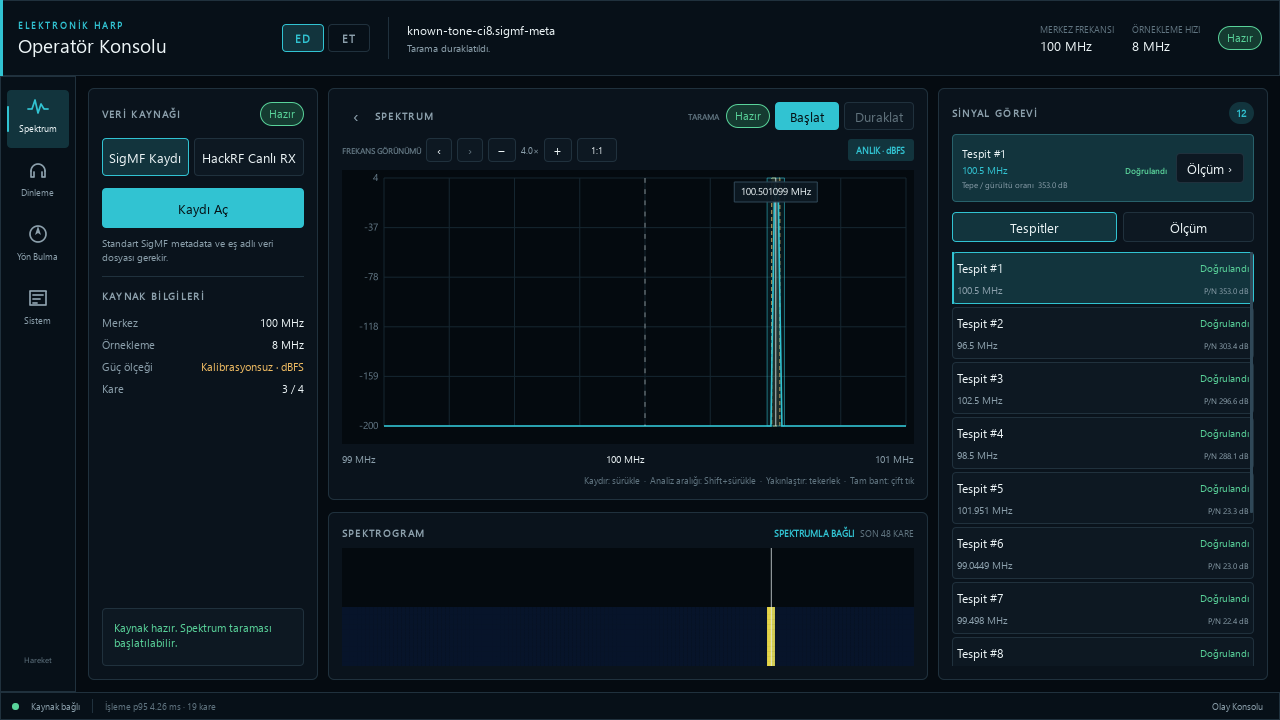
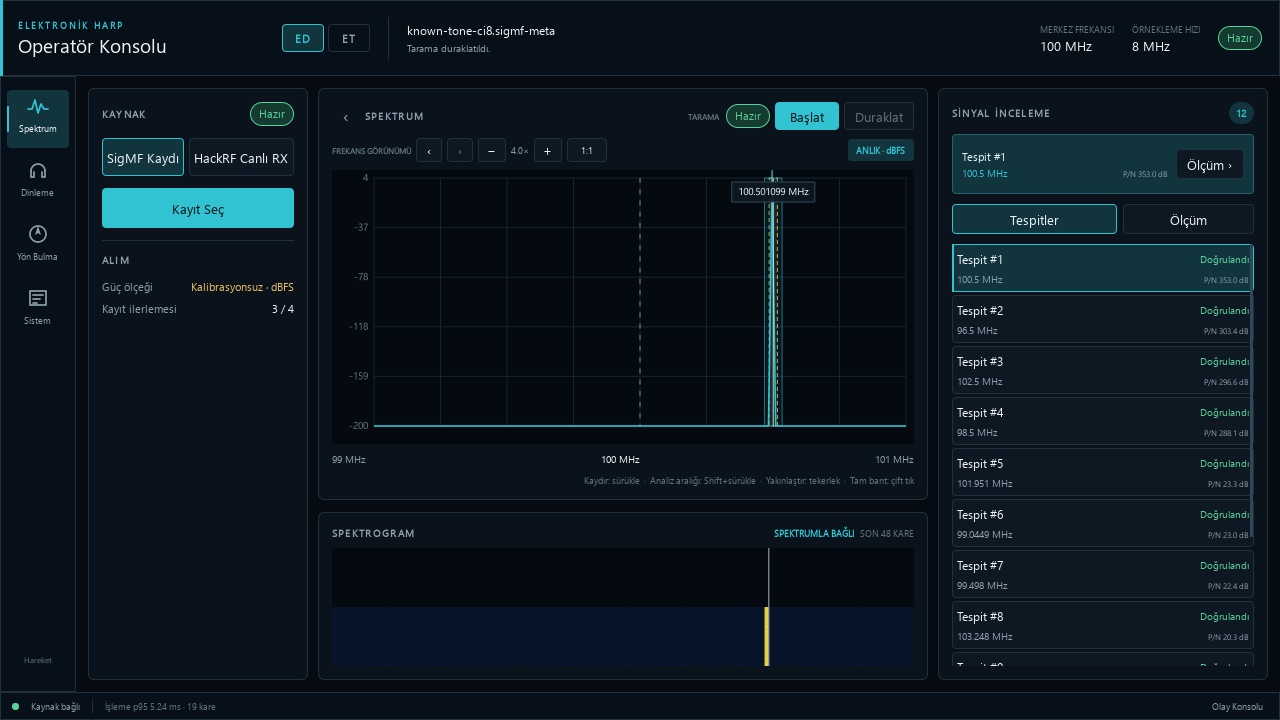
feat(ui): refine ED operator hierarchy

diff --git a/app/operator_console/qml/Main.qml b/app/operator_console/qml/Main.qml
@@ -695,7 +695,7 @@ ApplicationWindow {
 
                     Panel {
                         id: sourcePanel
-                        property real animatedWidth: root.sourcePanelOpen ? 230 : 0
+                        property real animatedWidth: root.sourcePanelOpen ? 220 : 0
                         Layout.preferredWidth: animatedWidth
                         Layout.minimumWidth: animatedWidth
                         Layout.maximumWidth: animatedWidth
@@ -711,7 +711,7 @@ ApplicationWindow {
                             spacing: 12
                             RowLayout {
                                 Layout.fillWidth: true
-                                SectionTitle { text: "VERİ KAYNAĞI"; Layout.fillWidth: true }
+                                SectionTitle { text: "KAYNAK"; Layout.fillWidth: true }
                                 StateBadge { state: operatorViewModel.playing ? "Çalışıyor" : operatorViewModel.busy ? "Çalışıyor" : operatorViewModel.sourceState }
                             }
 
@@ -739,43 +739,19 @@ ApplicationWindow {
                             }
 
                             Rectangle { Layout.fillWidth: true; height: 1; color: root.border }
-                            SectionTitle { text: "KAYNAK BİLGİLERİ" }
+                            SectionTitle { text: "ALIM" }
                             GridLayout {
                                 columns: 2
                                 Layout.fillWidth: true
                                 columnSpacing: 10
                                 rowSpacing: 7
-                                Label { text: "Merkez"; color: root.textSecondary; font.pixelSize: 11 }
-                                Label { text: operatorViewModel.centerFrequencyText; color: root.textPrimary; font.pixelSize: 11; Layout.fillWidth: true; horizontalAlignment: Text.AlignRight }
-                                Label { text: "Örnekleme"; color: root.textSecondary; font.pixelSize: 11 }
-                                Label { text: operatorViewModel.sampleRateText; color: root.textPrimary; font.pixelSize: 11; Layout.fillWidth: true; horizontalAlignment: Text.AlignRight }
                                 Label { text: "Güç ölçeği"; color: root.textSecondary; font.pixelSize: 11 }
                                 Label { text: operatorViewModel.calibrationText; color: root.warning; font.pixelSize: 11; Layout.fillWidth: true; horizontalAlignment: Text.AlignRight }
-                                Label { text: "Kare"; color: root.textSecondary; font.pixelSize: 11 }
+                                Label { text: "Kayıt ilerlemesi"; color: root.textSecondary; font.pixelSize: 11 }
                                 Label { text: operatorViewModel.frameIndex + " / " + operatorViewModel.frameCount; color: root.textPrimary; font.pixelSize: 11; Layout.fillWidth: true; horizontalAlignment: Text.AlignRight }
                             }
 
                             Item { Layout.fillHeight: true }
-                            Rectangle {
-                                Layout.fillWidth: true
-                                implicitHeight: taskState.implicitHeight + 28
-                                radius: 4
-                                color: root.surfaceAlt
-                                border.color: root.border
-                                Label {
-                                    id: taskState
-                                    anchors.fill: parent
-                                    anchors.margins: 12
-                                    text: operatorViewModel.sourceReady
-                                          ? (operatorViewModel.playing
-                                             ? "Tarama çalışıyor. Tespitler canlı olarak güncelleniyor."
-                                             : "Kaynak hazır. Spektrum taraması başlatılabilir.")
-                                          : "Bir SigMF kaydı açın veya bağlı HackRF alıcısını denetleyin."
-                                    wrapMode: Text.Wrap
-                                    color: operatorViewModel.sourceReady ? root.success : root.textSecondary
-                                    font.pixelSize: 11
-                                }
-                            }
                         }
                     }
 
@@ -1206,7 +1182,7 @@ ApplicationWindow {
                             spacing: 10
                             RowLayout {
                                 Layout.fillWidth: true
-                                SectionTitle { text: "SİNYAL GÖREVİ"; Layout.fillWidth: true }
+                                SectionTitle { text: "SİNYAL İNCELEME"; Layout.fillWidth: true }
                                 Rectangle {
                                     implicitWidth: detectionCount.implicitWidth + 14
                                     implicitHeight: 22
@@ -1217,7 +1193,7 @@ ApplicationWindow {
                             }
                             Rectangle {
                                 Layout.fillWidth: true
-                                implicitHeight: 68
+                                implicitHeight: 60
                                 radius: 4
                                 color: operatorViewModel.selectedDetectionReady ? root.accentSoft : root.surfaceAlt
                                 border.color: operatorViewModel.selectedDetectionReady ? "#28616B" : root.border
@@ -1239,9 +1215,8 @@ ApplicationWindow {
                                         RowLayout {
                                             Layout.fillWidth: true
                                             Label { text: operatorViewModel.selectedDetectionFrequencyText; color: operatorViewModel.selectedDetectionReady ? root.accent : root.textSecondary; font.pixelSize: 10; font.family: "Consolas"; Layout.fillWidth: true }
-                                            Label { text: operatorViewModel.selectedDetectionStateText; color: operatorViewModel.selectedDetectionReady ? root.success : root.textMuted; font.pixelSize: 8; font.weight: Font.Bold }
+                                            Label { visible: operatorViewModel.selectedDetectionReady; text: "P/N " + operatorViewModel.selectedDetectionContrastText; color: root.textSecondary; font.pixelSize: 8; Accessible.name: "Tepe gürültü oranı " + operatorViewModel.selectedDetectionContrastText }
                                         }
-                                        Label { visible: operatorViewModel.selectedDetectionReady; text: "Tepe / gürültü oranı  " + operatorViewModel.selectedDetectionContrastText; color: root.textSecondary; font.pixelSize: 8 }
                                     }
                                     QuietButton {
                                         text: "Ölçüm ›"
@@ -1289,7 +1264,7 @@ ApplicationWindow {
                                 delegate: Button {
                                     required property var modelData
                                     width: ListView.view.width
-                                    height: 52
+                                    height: 48
                                     Accessible.name: modelData.title + ", " + modelData.state
                                     onPressed: operatorViewModel.selectDetection(modelData.eventId)
                                     background: Rectangle {
@@ -2091,8 +2066,8 @@ ApplicationWindow {
                     spacing: 10
                     RowLayout {
                         Layout.fillWidth: true
-                        SectionTitle { text: "SİSTEM / DURUM İZLEME"; Layout.fillWidth: true }
-                        Label { text: "SALT OKUNUR SİSTEM DURUMU"; color: root.textMuted; font.pixelSize: root.uiMetaTextSize; font.weight: Font.Bold }
+                        SectionTitle { text: "SİSTEM DURUMU"; Layout.fillWidth: true }
+                        Label { text: "SALT OKUNUR"; color: root.textMuted; font.pixelSize: root.uiMetaTextSize; font.weight: Font.Bold }
                         StateBadge { state: operatorViewModel.sourceReady ? "Hazır" : "Bekliyor" }
                     }
                     Panel {
@@ -2106,9 +2081,9 @@ ApplicationWindow {
                             Repeater {
                                 model: [
                                     {"label": "KAYNAK", "value": operatorViewModel.sourceState, "detail": operatorViewModel.sourceName},
-                                    {"label": "İŞLENEN KARE", "value": operatorViewModel.frameIndex + " / " + operatorViewModel.frameCount, "detail": operatorViewModel.playing ? "Tarama çalışıyor" : "Tarama duraklatıldı"},
-                                    {"label": "HOST İŞLEME", "value": operatorViewModel.performanceText, "detail": "GUI iş parçacığı dışında"},
-                                    {"label": "PARAMETRE ÖLÇÜMÜ", "value": operatorViewModel.parameterCapabilityReady ? "Kullanılabilir" : "Kullanılamıyor", "detail": "Profil bütünlüğü doğrulandı"}
+                                    {"label": "TARAMA", "value": operatorViewModel.frameIndex + " / " + operatorViewModel.frameCount, "detail": operatorViewModel.playing ? "Çalışıyor" : "Duraklatıldı"},
+                                    {"label": "İŞLEME GECİKMESİ", "value": operatorViewModel.performanceText, "detail": "Arka plan işleme"},
+                                    {"label": "ÖLÇÜM PROFİLİ", "value": operatorViewModel.parameterCapabilityReady ? "Hazır" : "Kullanılamıyor", "detail": "Bütünlük doğrulandı"}
                                 ]
                                 delegate: Rectangle {
                                     required property var modelData
@@ -2146,10 +2121,9 @@ ApplicationWindow {
                                 spacing: 8
                                 RowLayout {
                                     Layout.fillWidth: true
-                                    SectionTitle { text: "İŞLEME ZİNCİRİ"; Layout.fillWidth: true }
-                                    Label { text: operatorViewModel.pipelineBlocks.length + " aşama"; color: root.textMuted; font.pixelSize: root.uiMetaTextSize; font.family: "Consolas" }
+                                    SectionTitle { text: "İŞLEME DURUMU"; Layout.fillWidth: true }
+                                    Label { text: operatorViewModel.pipelineBlocks.length + " bileşen"; color: root.textMuted; font.pixelSize: root.uiMetaTextSize; font.family: "Consolas" }
                                 }
-                                Label { text: "Etkin yürütme katmanı ve doğrulanmış kaynak karşılıkları"; color: root.textSecondary; font.pixelSize: root.uiMetaTextSize; wrapMode: Text.Wrap; Layout.fillWidth: true }
                                 Rectangle { Layout.fillWidth: true; height: 1; color: root.border }
                                 ListView {
                                     id: pipelineList
@@ -2214,7 +2188,7 @@ ApplicationWindow {
                                     spacing: 8
                                     RowLayout {
                                         Layout.fillWidth: true
-                                        SectionTitle { text: "BİLEŞEN DENETÇİSİ"; Layout.fillWidth: true }
+                                        SectionTitle { text: "BİLEŞEN AYRINTISI"; Layout.fillWidth: true }
                                         Rectangle { width: 8; height: 8; radius: 4; color: root.stateColor(componentInspector.block.state || "") }
                                         Label { text: componentInspector.block.state || "—"; color: root.stateColor(componentInspector.block.state || ""); font.pixelSize: root.uiMetaTextSize; font.weight: Font.Bold }
                                     }
@@ -2241,9 +2215,11 @@ ApplicationWindow {
                                         Layout.fillWidth: true
                                         columnSpacing: 16
                                         rowSpacing: 4
-                                        Label { text: "Uygulama"; color: root.textMuted; font.pixelSize: root.uiMetaTextSize }
-                                        Label { text: componentInspector.block.implementation || "—"; color: root.textPrimary; font.pixelSize: root.uiMetaTextSize; Layout.fillWidth: true }
-                                        Label { text: "Donanım sınırı"; color: root.textMuted; font.pixelSize: root.uiMetaTextSize }
+                                        Label { text: "Yürütme katmanı"; color: root.textMuted; font.pixelSize: root.uiMetaTextSize }
+                                        Label { text: componentInspector.block.runtime || "—"; color: root.textPrimary; font.pixelSize: root.uiMetaTextSize; Layout.fillWidth: true }
+                                        Label { text: "Uygulama"; visible: operatorViewModel.developerMode; color: root.textMuted; font.pixelSize: root.uiMetaTextSize }
+                                        Label { text: componentInspector.block.implementation || "—"; visible: operatorViewModel.developerMode; color: root.textPrimary; font.pixelSize: root.uiMetaTextSize; Layout.fillWidth: true }
+                                        Label { text: "Donanım durumu"; color: root.textMuted; font.pixelSize: root.uiMetaTextSize }
                                         Label { text: componentInspector.block.rtlPath ? "Kaynak karşılığı mevcut; kart kabulü yok" : "Host üzerinde çalışıyor"; color: componentInspector.block.rtlPath ? root.warning : root.textSecondary; font.pixelSize: root.uiMetaTextSize; Layout.fillWidth: true }
                                     }
                                     RowLayout {
@@ -2643,8 +2619,8 @@ ApplicationWindow {
         ColumnLayout {
             width: parent ? parent.width : 240
             spacing: 8
-            PrimaryButton { Layout.fillWidth: true; text: "Kaydı Aç"; enabled: !operatorViewModel.busy; onClicked: sigmfDialog.open() }
-            Label { text: "Standart SigMF metadata ve eş adlı veri dosyası gerekir."; color: root.textSecondary; font.pixelSize: 10; wrapMode: Text.Wrap; Layout.fillWidth: true }
+            PrimaryButton { Layout.fillWidth: true; text: "Kayıt Seç"; enabled: !operatorViewModel.busy; onClicked: sigmfDialog.open() }
+            Label { visible: !operatorViewModel.sourceReady; text: "SigMF metadata ve veri dosyasını birlikte seçin."; color: root.textSecondary; font.pixelSize: 10; wrapMode: Text.Wrap; Layout.fillWidth: true }
         }
     }
 

diff --git a/tests/test_app_f_quick_product.py b/tests/test_app_f_quick_product.py
@@ -365,8 +365,8 @@ print(json.dumps(payload,ensure_ascii=False))
             "Etkin Kare Gücünü Kaydet",
             'objectName: "pipelineList"',
             'objectName: "systemLog"',
-            "SALT OKUNUR SİSTEM DURUMU",
-            "BİLEŞEN DENETÇİSİ",
+            "SALT OKUNUR",
+            "BİLEŞEN AYRINTISI",
             "Salt okunur · komut çalıştırmaz",
             'sequence: "Alt+Left"',
             "Kanal Sesini Hazırla",

diff --git a/scripts/verify_app_f_release_ui.py b/scripts/verify_app_f_release_ui.py
@@ -564,7 +564,7 @@ def _parent_run() -> int:
             for marker in (
                 'objectName: "pipelineList"',
                 'objectName: "systemLog"',
-                "BİLEŞEN DENETÇİSİ",
+                "BİLEŞEN AYRINTISI",
                 "OPERASYON GÜNLÜĞÜ",
                 "Salt okunur · komut çalıştırmaz",
             )
